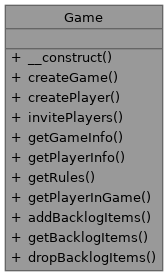
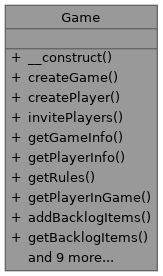
deploy: 6bb909c331b3e1d61c394fe26b433213d7e38e1c

diff --git a/html/classGame.html b/html/classGame.html
@@ -83,7 +83,7 @@ Collaboration diagram for Game:</div>
 <div class="dyncontent">
 <div class="center"><img src="classGame__coll__graph.png" border="0" usemap="#aGame_coll__map" alt="Collaboration graph"/></div>
 <map name="aGame_coll__map" id="aGame_coll__map">
-<area shape="rect" title="Manipulation des données dans la base de donnée." alt="" coords="5,5,163,271"/>
+<area shape="rect" title="Manipulation des données dans la base de donnée." alt="" coords="5,5,157,271"/>
 </map>
 </div>
 <table class="memberdecls">
@@ -122,6 +122,32 @@ Public Member Functions</h2></td></tr>
 <tr class="memitem:a8ec096459a4204b1d0dffeced701df7d" id="r_a8ec096459a4204b1d0dffeced701df7d"><td class="memItemLeft" align="right" valign="top">&#160;</td><td class="memItemRight" valign="bottom"><a class="el" href="classGame.html#a8ec096459a4204b1d0dffeced701df7d">dropBacklogItems</a> (int $gameId)</td></tr>
 <tr class="memdesc:a8ec096459a4204b1d0dffeced701df7d"><td class="mdescLeft">&#160;</td><td class="mdescRight">Supprimer le Backlog d'une partie.  <br /></td></tr>
 <tr class="separator:a8ec096459a4204b1d0dffeced701df7d"><td class="memSeparator" colspan="2">&#160;</td></tr>
+<tr class="memitem:ae535cf043f8de469b36eb099087f6bb6" id="r_ae535cf043f8de469b36eb099087f6bb6"><td class="memItemLeft" align="right" valign="top">&#160;</td><td class="memItemRight" valign="bottom"><a class="el" href="classGame.html#ae535cf043f8de469b36eb099087f6bb6">updateGameStatus</a> (int $gameId, string $status)</td></tr>
+<tr class="memdesc:ae535cf043f8de469b36eb099087f6bb6"><td class="mdescLeft">&#160;</td><td class="mdescRight">Modification du statut d'une partie.  <br /></td></tr>
+<tr class="separator:ae535cf043f8de469b36eb099087f6bb6"><td class="memSeparator" colspan="2">&#160;</td></tr>
+<tr class="memitem:a5920f653d7d1e685533edc83c3a73e4a" id="r_a5920f653d7d1e685533edc83c3a73e4a"><td class="memItemLeft" align="right" valign="top">&#160;</td><td class="memItemRight" valign="bottom"><a class="el" href="classGame.html#a5920f653d7d1e685533edc83c3a73e4a">getNextPendingTask</a> (int $gameId)</td></tr>
+<tr class="memdesc:a5920f653d7d1e685533edc83c3a73e4a"><td class="mdescLeft">&#160;</td><td class="mdescRight">Récupère la prochaine tâche à estimer.  <br /></td></tr>
+<tr class="separator:a5920f653d7d1e685533edc83c3a73e4a"><td class="memSeparator" colspan="2">&#160;</td></tr>
+<tr class="memitem:a089974d291b427854f414a7a74431a55" id="r_a089974d291b427854f414a7a74431a55"><td class="memItemLeft" align="right" valign="top">&#160;</td><td class="memItemRight" valign="bottom"><a class="el" href="classGame.html#a089974d291b427854f414a7a74431a55">submitVote</a> (int $backlogItemId, int $playerId, string $value, int $roundNumber)</td></tr>
+<tr class="memdesc:a089974d291b427854f414a7a74431a55"><td class="mdescLeft">&#160;</td><td class="mdescRight">Enregistre les votes des joueurs dans la base de données.  <br /></td></tr>
+<tr class="separator:a089974d291b427854f414a7a74431a55"><td class="memSeparator" colspan="2">&#160;</td></tr>
+<tr class="memitem:a41a9079ac34297164e443ca999cde54b" id="r_a41a9079ac34297164e443ca999cde54b"><td class="memItemLeft" align="right" valign="top">&#160;</td><td class="memItemRight" valign="bottom"><a class="el" href="classGame.html#a41a9079ac34297164e443ca999cde54b">isRoundComplete</a> (int $gameId, int $itemId, int $roundNumber)</td></tr>
+<tr class="memdesc:a41a9079ac34297164e443ca999cde54b"><td class="mdescLeft">&#160;</td><td class="mdescRight">Vérifie si TOUS les joueurs ont voté pour un tour donnée Coparaison entre le nombre de joueurs et le nombres des votes.  <br /></td></tr>
+<tr class="separator:a41a9079ac34297164e443ca999cde54b"><td class="memSeparator" colspan="2">&#160;</td></tr>
+<tr class="memitem:a014cee07eeab9e8e423536369514c9e0" id="r_a014cee07eeab9e8e423536369514c9e0"><td class="memItemLeft" align="right" valign="top"><a id="a014cee07eeab9e8e423536369514c9e0" name="a014cee07eeab9e8e423536369514c9e0"></a>
+&#160;</td><td class="memItemRight" valign="bottom"><b>hasPlayerVoted</b> (int $itemId, int $playerId, int $roundNumber)</td></tr>
+<tr class="memdesc:a014cee07eeab9e8e423536369514c9e0"><td class="mdescLeft">&#160;</td><td class="mdescRight">Vérifie si un joueur spécifique a déjà voté pour le tour en cours. <br /></td></tr>
+<tr class="separator:a014cee07eeab9e8e423536369514c9e0"><td class="memSeparator" colspan="2">&#160;</td></tr>
+<tr class="memitem:a4867078cb73bb1d3336a74e2d0b2bc73" id="r_a4867078cb73bb1d3336a74e2d0b2bc73"><td class="memItemLeft" align="right" valign="top">&#160;</td><td class="memItemRight" valign="bottom"><a class="el" href="classGame.html#a4867078cb73bb1d3336a74e2d0b2bc73">getVotesForRound</a> (int $itemId, int $roundNumber)</td></tr>
+<tr class="memdesc:a4867078cb73bb1d3336a74e2d0b2bc73"><td class="mdescLeft">&#160;</td><td class="mdescRight">Récupère la liste des votes pour un tour donné.  <br /></td></tr>
+<tr class="separator:a4867078cb73bb1d3336a74e2d0b2bc73"><td class="memSeparator" colspan="2">&#160;</td></tr>
+<tr class="memitem:a6dfc64bd9230b0700d14e88b45a7f570" id="r_a6dfc64bd9230b0700d14e88b45a7f570"><td class="memItemLeft" align="right" valign="top">&#160;</td><td class="memItemRight" valign="bottom"><a class="el" href="classGame.html#a6dfc64bd9230b0700d14e88b45a7f570">validateTaskDifficulty</a> (int $itemId, string $difficulty)</td></tr>
+<tr class="memdesc:a6dfc64bd9230b0700d14e88b45a7f570"><td class="mdescLeft">&#160;</td><td class="mdescRight">Enregistrement de la difficulté finale.  <br /></td></tr>
+<tr class="separator:a6dfc64bd9230b0700d14e88b45a7f570"><td class="memSeparator" colspan="2">&#160;</td></tr>
+<tr class="memitem:abaaca7771e4d1d1cc87aae7daeb5deef" id="r_abaaca7771e4d1d1cc87aae7daeb5deef"><td class="memItemLeft" align="right" valign="top"><a id="abaaca7771e4d1d1cc87aae7daeb5deef" name="abaaca7771e4d1d1cc87aae7daeb5deef"></a>
+&#160;</td><td class="memItemRight" valign="bottom"><b>prepareNextRound</b> (int $itemId)</td></tr>
+<tr class="memdesc:abaaca7771e4d1d1cc87aae7daeb5deef"><td class="mdescLeft">&#160;</td><td class="mdescRight">Prépare la même tâche pour un nouveau tour de vote. retourn void. <br /></td></tr>
+<tr class="separator:abaaca7771e4d1d1cc87aae7daeb5deef"><td class="memSeparator" colspan="2">&#160;</td></tr>
 </table>
 <a name="details" id="details"></a><h2 class="groupheader">Detailed Description</h2>
 <div class="textblock"><p>Manipulation des données dans la base de donnée. </p>
@@ -374,6 +400,219 @@ Here is the call graph for this function:</div>
   </dd>
 </dl>
 <dl class="section return"><dt>Returns</dt><dd>array|null Retourne un tableau associatif contenant les données de la partie et une clé 'players' (tableau de joueurs), ou NULL si la partie n'existe pas. </dd></dl>
+
+</div>
+</div>
+<a id="a5920f653d7d1e685533edc83c3a73e4a" name="a5920f653d7d1e685533edc83c3a73e4a"></a>
+<h2 class="memtitle"><span class="permalink"><a href="#a5920f653d7d1e685533edc83c3a73e4a">&#9670;&#160;</a></span>getNextPendingTask()</h2>
+
+<div class="memitem">
+<div class="memproto">
+      <table class="memname">
+        <tr>
+          <td class="memname">Game::getNextPendingTask </td>
+          <td>(</td>
+          <td class="paramtype">int&#160;</td>
+          <td class="paramname"><em>$gameId</em></td><td>)</td>
+          <td></td>
+        </tr>
+      </table>
+</div><div class="memdoc">
+
+<p>Récupère la prochaine tâche à estimer. </p>
+<dl class="params"><dt>Parameters</dt><dd>
+  <table class="params">
+    <tr><td class="paramtype">int</td><td class="paramname">$gameId</td><td></td></tr>
+  </table>
+  </dd>
+</dl>
+<dl class="section return"><dt>Returns</dt><dd>array|null La tâche ou null s'il n'y a plus rien à voter. </dd></dl>
+
+</div>
+</div>
+<a id="a4867078cb73bb1d3336a74e2d0b2bc73" name="a4867078cb73bb1d3336a74e2d0b2bc73"></a>
+<h2 class="memtitle"><span class="permalink"><a href="#a4867078cb73bb1d3336a74e2d0b2bc73">&#9670;&#160;</a></span>getVotesForRound()</h2>
+
+<div class="memitem">
+<div class="memproto">
+      <table class="memname">
+        <tr>
+          <td class="memname">Game::getVotesForRound </td>
+          <td>(</td>
+          <td class="paramtype">int&#160;</td>
+          <td class="paramname"><em>$itemId</em>, </td>
+        </tr>
+        <tr>
+          <td class="paramkey"></td>
+          <td></td>
+          <td class="paramtype">int&#160;</td>
+          <td class="paramname"><em>$roundNumber</em>&#160;</td>
+        </tr>
+        <tr>
+          <td></td>
+          <td>)</td>
+          <td></td><td></td>
+        </tr>
+      </table>
+</div><div class="memdoc">
+
+<p>Récupère la liste des votes pour un tour donné. </p>
+<dl class="section return"><dt>Returns</dt><dd>array </dd></dl>
+
+</div>
+</div>
+<a id="a41a9079ac34297164e443ca999cde54b" name="a41a9079ac34297164e443ca999cde54b"></a>
+<h2 class="memtitle"><span class="permalink"><a href="#a41a9079ac34297164e443ca999cde54b">&#9670;&#160;</a></span>isRoundComplete()</h2>
+
+<div class="memitem">
+<div class="memproto">
+      <table class="memname">
+        <tr>
+          <td class="memname">Game::isRoundComplete </td>
+          <td>(</td>
+          <td class="paramtype">int&#160;</td>
+          <td class="paramname"><em>$gameId</em>, </td>
+        </tr>
+        <tr>
+          <td class="paramkey"></td>
+          <td></td>
+          <td class="paramtype">int&#160;</td>
+          <td class="paramname"><em>$itemId</em>, </td>
+        </tr>
+        <tr>
+          <td class="paramkey"></td>
+          <td></td>
+          <td class="paramtype">int&#160;</td>
+          <td class="paramname"><em>$roundNumber</em>&#160;</td>
+        </tr>
+        <tr>
+          <td></td>
+          <td>)</td>
+          <td></td><td></td>
+        </tr>
+      </table>
+</div><div class="memdoc">
+
+<p>Vérifie si TOUS les joueurs ont voté pour un tour donnée Coparaison entre le nombre de joueurs et le nombres des votes. </p>
+<dl class="section return"><dt>Returns</dt><dd>bool </dd></dl>
+
+</div>
+</div>
+<a id="a089974d291b427854f414a7a74431a55" name="a089974d291b427854f414a7a74431a55"></a>
+<h2 class="memtitle"><span class="permalink"><a href="#a089974d291b427854f414a7a74431a55">&#9670;&#160;</a></span>submitVote()</h2>
+
+<div class="memitem">
+<div class="memproto">
+      <table class="memname">
+        <tr>
+          <td class="memname">Game::submitVote </td>
+          <td>(</td>
+          <td class="paramtype">int&#160;</td>
+          <td class="paramname"><em>$backlogItemId</em>, </td>
+        </tr>
+        <tr>
+          <td class="paramkey"></td>
+          <td></td>
+          <td class="paramtype">int&#160;</td>
+          <td class="paramname"><em>$playerId</em>, </td>
+        </tr>
+        <tr>
+          <td class="paramkey"></td>
+          <td></td>
+          <td class="paramtype">string&#160;</td>
+          <td class="paramname"><em>$value</em>, </td>
+        </tr>
+        <tr>
+          <td class="paramkey"></td>
+          <td></td>
+          <td class="paramtype">int&#160;</td>
+          <td class="paramname"><em>$roundNumber</em>&#160;</td>
+        </tr>
+        <tr>
+          <td></td>
+          <td>)</td>
+          <td></td><td></td>
+        </tr>
+      </table>
+</div><div class="memdoc">
+
+<p>Enregistre les votes des joueurs dans la base de données. </p>
+<dl class="params"><dt>Parameters</dt><dd>
+  <table class="params">
+    <tr><td class="paramtype">int</td><td class="paramname">$gameId</td><td></td></tr>
+  </table>
+  </dd>
+</dl>
+<dl class="section return"><dt>Returns</dt><dd>void </dd></dl>
+
+</div>
+</div>
+<a id="ae535cf043f8de469b36eb099087f6bb6" name="ae535cf043f8de469b36eb099087f6bb6"></a>
+<h2 class="memtitle"><span class="permalink"><a href="#ae535cf043f8de469b36eb099087f6bb6">&#9670;&#160;</a></span>updateGameStatus()</h2>
+
+<div class="memitem">
+<div class="memproto">
+      <table class="memname">
+        <tr>
+          <td class="memname">Game::updateGameStatus </td>
+          <td>(</td>
+          <td class="paramtype">int&#160;</td>
+          <td class="paramname"><em>$gameId</em>, </td>
+        </tr>
+        <tr>
+          <td class="paramkey"></td>
+          <td></td>
+          <td class="paramtype">string&#160;</td>
+          <td class="paramname"><em>$status</em>&#160;</td>
+        </tr>
+        <tr>
+          <td></td>
+          <td>)</td>
+          <td></td><td></td>
+        </tr>
+      </table>
+</div><div class="memdoc">
+
+<p>Modification du statut d'une partie. </p>
+<dl class="params"><dt>Parameters</dt><dd>
+  <table class="params">
+    <tr><td class="paramtype">int</td><td class="paramname">$gameId</td><td>L'ID de la partie. </td></tr>
+    <tr><td class="paramtype">string</td><td class="paramname">$status</td><td>Le nouveau statut. </td></tr>
+  </table>
+  </dd>
+</dl>
+<dl class="section return"><dt>Returns</dt><dd>void </dd></dl>
+
+</div>
+</div>
+<a id="a6dfc64bd9230b0700d14e88b45a7f570" name="a6dfc64bd9230b0700d14e88b45a7f570"></a>
+<h2 class="memtitle"><span class="permalink"><a href="#a6dfc64bd9230b0700d14e88b45a7f570">&#9670;&#160;</a></span>validateTaskDifficulty()</h2>
+
+<div class="memitem">
+<div class="memproto">
+      <table class="memname">
+        <tr>
+          <td class="memname">Game::validateTaskDifficulty </td>
+          <td>(</td>
+          <td class="paramtype">int&#160;</td>
+          <td class="paramname"><em>$itemId</em>, </td>
+        </tr>
+        <tr>
+          <td class="paramkey"></td>
+          <td></td>
+          <td class="paramtype">string&#160;</td>
+          <td class="paramname"><em>$difficulty</em>&#160;</td>
+        </tr>
+        <tr>
+          <td></td>
+          <td>)</td>
+          <td></td><td></td>
+        </tr>
+      </table>
+</div><div class="memdoc">
+
+<p>Enregistrement de la difficulté finale. </p>
+<dl class="section return"><dt>Returns</dt><dd>void </dd></dl>
 
 </div>
 </div>

diff --git a/html/classGame-members.html b/html/classGame-members.html
@@ -82,10 +82,18 @@ $(function() {
   <tr class="even"><td class="entry"><a class="el" href="classGame.html#a8ec096459a4204b1d0dffeced701df7d">dropBacklogItems</a>(int $gameId)</td><td class="entry"><a class="el" href="classGame.html">Game</a></td><td class="entry"></td></tr>
   <tr class="odd"><td class="entry"><a class="el" href="classGame.html#a7e593761c88de15ccda73d260080254b">getBacklogItems</a>(int $gameId)</td><td class="entry"><a class="el" href="classGame.html">Game</a></td><td class="entry"></td></tr>
   <tr class="even"><td class="entry"><a class="el" href="classGame.html#a6e40688e8728d29da2364fadba9602d0">getGameInfo</a>(int $gameId)</td><td class="entry"><a class="el" href="classGame.html">Game</a></td><td class="entry"></td></tr>
-  <tr bgcolor="#f0f0f0" class="odd"><td class="entry"><b>getPlayerInfo</b>(int $playerID) (defined in <a class="el" href="classGame.html">Game</a>)</td><td class="entry"><a class="el" href="classGame.html">Game</a></td><td class="entry"></td></tr>
-  <tr bgcolor="#f0f0f0" class="even"><td class="entry"><b>getPlayerInGame</b>(string $playerPseudo, string $gameInviteId) (defined in <a class="el" href="classGame.html">Game</a>)</td><td class="entry"><a class="el" href="classGame.html">Game</a></td><td class="entry"></td></tr>
-  <tr bgcolor="#f0f0f0" class="odd"><td class="entry"><b>getRules</b>() (defined in <a class="el" href="classGame.html">Game</a>)</td><td class="entry"><a class="el" href="classGame.html">Game</a></td><td class="entry"></td></tr>
-  <tr bgcolor="#f0f0f0" class="even"><td class="entry"><b>invitePlayers</b>(array $pseudos, int $gameId) (defined in <a class="el" href="classGame.html">Game</a>)</td><td class="entry"><a class="el" href="classGame.html">Game</a></td><td class="entry"></td></tr>
+  <tr class="odd"><td class="entry"><a class="el" href="classGame.html#a5920f653d7d1e685533edc83c3a73e4a">getNextPendingTask</a>(int $gameId)</td><td class="entry"><a class="el" href="classGame.html">Game</a></td><td class="entry"></td></tr>
+  <tr bgcolor="#f0f0f0" class="even"><td class="entry"><b>getPlayerInfo</b>(int $playerID) (defined in <a class="el" href="classGame.html">Game</a>)</td><td class="entry"><a class="el" href="classGame.html">Game</a></td><td class="entry"></td></tr>
+  <tr bgcolor="#f0f0f0" class="odd"><td class="entry"><b>getPlayerInGame</b>(string $playerPseudo, string $gameInviteId) (defined in <a class="el" href="classGame.html">Game</a>)</td><td class="entry"><a class="el" href="classGame.html">Game</a></td><td class="entry"></td></tr>
+  <tr bgcolor="#f0f0f0" class="even"><td class="entry"><b>getRules</b>() (defined in <a class="el" href="classGame.html">Game</a>)</td><td class="entry"><a class="el" href="classGame.html">Game</a></td><td class="entry"></td></tr>
+  <tr class="odd"><td class="entry"><a class="el" href="classGame.html#a4867078cb73bb1d3336a74e2d0b2bc73">getVotesForRound</a>(int $itemId, int $roundNumber)</td><td class="entry"><a class="el" href="classGame.html">Game</a></td><td class="entry"></td></tr>
+  <tr class="even"><td class="entry"><a class="el" href="classGame.html#a014cee07eeab9e8e423536369514c9e0">hasPlayerVoted</a>(int $itemId, int $playerId, int $roundNumber)</td><td class="entry"><a class="el" href="classGame.html">Game</a></td><td class="entry"></td></tr>
+  <tr bgcolor="#f0f0f0" class="odd"><td class="entry"><b>invitePlayers</b>(array $pseudos, int $gameId) (defined in <a class="el" href="classGame.html">Game</a>)</td><td class="entry"><a class="el" href="classGame.html">Game</a></td><td class="entry"></td></tr>
+  <tr class="even"><td class="entry"><a class="el" href="classGame.html#a41a9079ac34297164e443ca999cde54b">isRoundComplete</a>(int $gameId, int $itemId, int $roundNumber)</td><td class="entry"><a class="el" href="classGame.html">Game</a></td><td class="entry"></td></tr>
+  <tr class="odd"><td class="entry"><a class="el" href="classGame.html#abaaca7771e4d1d1cc87aae7daeb5deef">prepareNextRound</a>(int $itemId)</td><td class="entry"><a class="el" href="classGame.html">Game</a></td><td class="entry"></td></tr>
+  <tr class="even"><td class="entry"><a class="el" href="classGame.html#a089974d291b427854f414a7a74431a55">submitVote</a>(int $backlogItemId, int $playerId, string $value, int $roundNumber)</td><td class="entry"><a class="el" href="classGame.html">Game</a></td><td class="entry"></td></tr>
+  <tr class="odd"><td class="entry"><a class="el" href="classGame.html#ae535cf043f8de469b36eb099087f6bb6">updateGameStatus</a>(int $gameId, string $status)</td><td class="entry"><a class="el" href="classGame.html">Game</a></td><td class="entry"></td></tr>
+  <tr class="even"><td class="entry"><a class="el" href="classGame.html#a6dfc64bd9230b0700d14e88b45a7f570">validateTaskDifficulty</a>(int $itemId, string $difficulty)</td><td class="entry"><a class="el" href="classGame.html">Game</a></td><td class="entry"></td></tr>
 </table></div><!-- contents -->
 <!-- start footer part -->
 <hr class="footer"/><address class="footer"><small>

diff --git a/html/functions.html b/html/functions.html
@@ -78,7 +78,15 @@ $(function() {
 <li>getBacklogItems()&#160;:&#160;<a class="el" href="classGame.html#a7e593761c88de15ccda73d260080254b">Game</a></li>
 <li>getGameInfo()&#160;:&#160;<a class="el" href="classGame.html#a6e40688e8728d29da2364fadba9602d0">Game</a></li>
 <li>getInstance()&#160;:&#160;<a class="el" href="classDatabase.html#a8399325825e893103c463e644f817f86">Database</a></li>
+<li>getNextPendingTask()&#160;:&#160;<a class="el" href="classGame.html#a5920f653d7d1e685533edc83c3a73e4a">Game</a></li>
 <li>getPdo()&#160;:&#160;<a class="el" href="classDatabase.html#a764343ea3b46daad2deec6f8e0a39566">Database</a></li>
+<li>getVotesForRound()&#160;:&#160;<a class="el" href="classGame.html#a4867078cb73bb1d3336a74e2d0b2bc73">Game</a></li>
+<li>hasPlayerVoted()&#160;:&#160;<a class="el" href="classGame.html#a014cee07eeab9e8e423536369514c9e0">Game</a></li>
+<li>isRoundComplete()&#160;:&#160;<a class="el" href="classGame.html#a41a9079ac34297164e443ca999cde54b">Game</a></li>
+<li>prepareNextRound()&#160;:&#160;<a class="el" href="classGame.html#abaaca7771e4d1d1cc87aae7daeb5deef">Game</a></li>
+<li>submitVote()&#160;:&#160;<a class="el" href="classGame.html#a089974d291b427854f414a7a74431a55">Game</a></li>
+<li>updateGameStatus()&#160;:&#160;<a class="el" href="classGame.html#ae535cf043f8de469b36eb099087f6bb6">Game</a></li>
+<li>validateTaskDifficulty()&#160;:&#160;<a class="el" href="classGame.html#a6dfc64bd9230b0700d14e88b45a7f570">Game</a></li>
 </ul>
 </div><!-- contents -->
 <!-- start footer part -->

diff --git a/html/functions_func.html b/html/functions_func.html
@@ -78,7 +78,15 @@ $(function() {
 <li>getBacklogItems()&#160;:&#160;<a class="el" href="classGame.html#a7e593761c88de15ccda73d260080254b">Game</a></li>
 <li>getGameInfo()&#160;:&#160;<a class="el" href="classGame.html#a6e40688e8728d29da2364fadba9602d0">Game</a></li>
 <li>getInstance()&#160;:&#160;<a class="el" href="classDatabase.html#a8399325825e893103c463e644f817f86">Database</a></li>
+<li>getNextPendingTask()&#160;:&#160;<a class="el" href="classGame.html#a5920f653d7d1e685533edc83c3a73e4a">Game</a></li>
 <li>getPdo()&#160;:&#160;<a class="el" href="classDatabase.html#a764343ea3b46daad2deec6f8e0a39566">Database</a></li>
+<li>getVotesForRound()&#160;:&#160;<a class="el" href="classGame.html#a4867078cb73bb1d3336a74e2d0b2bc73">Game</a></li>
+<li>hasPlayerVoted()&#160;:&#160;<a class="el" href="classGame.html#a014cee07eeab9e8e423536369514c9e0">Game</a></li>
+<li>isRoundComplete()&#160;:&#160;<a class="el" href="classGame.html#a41a9079ac34297164e443ca999cde54b">Game</a></li>
+<li>prepareNextRound()&#160;:&#160;<a class="el" href="classGame.html#abaaca7771e4d1d1cc87aae7daeb5deef">Game</a></li>
+<li>submitVote()&#160;:&#160;<a class="el" href="classGame.html#a089974d291b427854f414a7a74431a55">Game</a></li>
+<li>updateGameStatus()&#160;:&#160;<a class="el" href="classGame.html#ae535cf043f8de469b36eb099087f6bb6">Game</a></li>
+<li>validateTaskDifficulty()&#160;:&#160;<a class="el" href="classGame.html#a6dfc64bd9230b0700d14e88b45a7f570">Game</a></li>
 </ul>
 </div><!-- contents -->
 <!-- start footer part -->

diff --git a/html/search/all_4.js b/html/search/all_4.js
@@ -5,5 +5,7 @@ var searchData=
   ['getbacklogitems_2',['getBacklogItems',['../classGame.html#a7e593761c88de15ccda73d260080254b',1,'Game']]],
   ['getgameinfo_3',['getGameInfo',['../classGame.html#a6e40688e8728d29da2364fadba9602d0',1,'Game']]],
   ['getinstance_4',['getInstance',['../classDatabase.html#a8399325825e893103c463e644f817f86',1,'Database']]],
-  ['getpdo_5',['getPdo',['../classDatabase.html#a764343ea3b46daad2deec6f8e0a39566',1,'Database']]]
+  ['getnextpendingtask_5',['getNextPendingTask',['../classGame.html#a5920f653d7d1e685533edc83c3a73e4a',1,'Game']]],
+  ['getpdo_6',['getPdo',['../classDatabase.html#a764343ea3b46daad2deec6f8e0a39566',1,'Database']]],
+  ['getvotesforround_7',['getVotesForRound',['../classGame.html#a4867078cb73bb1d3336a74e2d0b2bc73',1,'Game']]]
 ];

diff --git a/html/search/functions_4.js b/html/search/functions_4.js
@@ -3,5 +3,7 @@ var searchData=
   ['getbacklogitems_0',['getBacklogItems',['../classGame.html#a7e593761c88de15ccda73d260080254b',1,'Game']]],
   ['getgameinfo_1',['getGameInfo',['../classGame.html#a6e40688e8728d29da2364fadba9602d0',1,'Game']]],
   ['getinstance_2',['getInstance',['../classDatabase.html#a8399325825e893103c463e644f817f86',1,'Database']]],
-  ['getpdo_3',['getPdo',['../classDatabase.html#a764343ea3b46daad2deec6f8e0a39566',1,'Database']]]
+  ['getnextpendingtask_3',['getNextPendingTask',['../classGame.html#a5920f653d7d1e685533edc83c3a73e4a',1,'Game']]],
+  ['getpdo_4',['getPdo',['../classDatabase.html#a764343ea3b46daad2deec6f8e0a39566',1,'Database']]],
+  ['getvotesforround_5',['getVotesForRound',['../classGame.html#a4867078cb73bb1d3336a74e2d0b2bc73',1,'Game']]]
 ];

diff --git a/html/search/searchdata.js b/html/search/searchdata.js
@@ -1,9 +1,9 @@
 var indexSectionsWithContent =
 {
-  0: "_acdglt",
+  0: "_acdghilpstuv",
   1: "dg",
   2: "dg",
-  3: "_acdg",
+  3: "_acdghipsuv",
   4: "lt"
 };
 

diff --git a/html/search/all_c.js b/html/search/all_c.js
@@ -1,0 +1,4 @@
+var searchData=
+[
+  ['validatetaskdifficulty_0',['validateTaskDifficulty',['../classGame.html#a6dfc64bd9230b0700d14e88b45a7f570',1,'Game']]]
+];

diff --git a/html/search/functions_a.js b/html/search/functions_a.js
@@ -1,0 +1,4 @@
+var searchData=
+[
+  ['validatetaskdifficulty_0',['validateTaskDifficulty',['../classGame.html#a6dfc64bd9230b0700d14e88b45a7f570',1,'Game']]]
+];

diff --git a/html/search/all_8.js b/html/search/all_8.js
@@ -1,0 +1,4 @@
+var searchData=
+[
+  ['preparenextround_0',['prepareNextRound',['../classGame.html#abaaca7771e4d1d1cc87aae7daeb5deef',1,'Game']]]
+];

diff --git a/html/search/all_b.js b/html/search/all_b.js
@@ -1,0 +1,4 @@
+var searchData=
+[
+  ['updategamestatus_0',['updateGameStatus',['../classGame.html#ae535cf043f8de469b36eb099087f6bb6',1,'Game']]]
+];

diff --git a/html/search/functions_7.js b/html/search/functions_7.js
@@ -1,0 +1,4 @@
+var searchData=
+[
+  ['preparenextround_0',['prepareNextRound',['../classGame.html#abaaca7771e4d1d1cc87aae7daeb5deef',1,'Game']]]
+];
